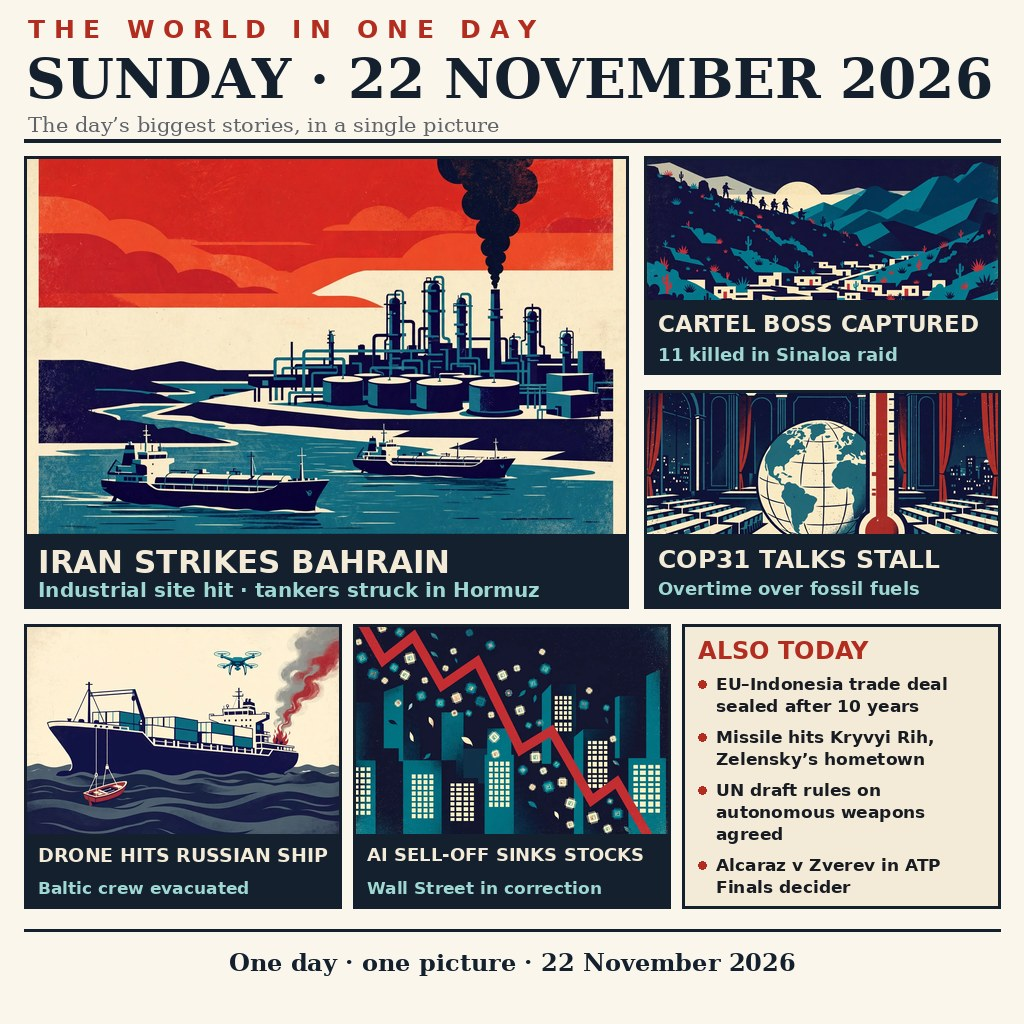
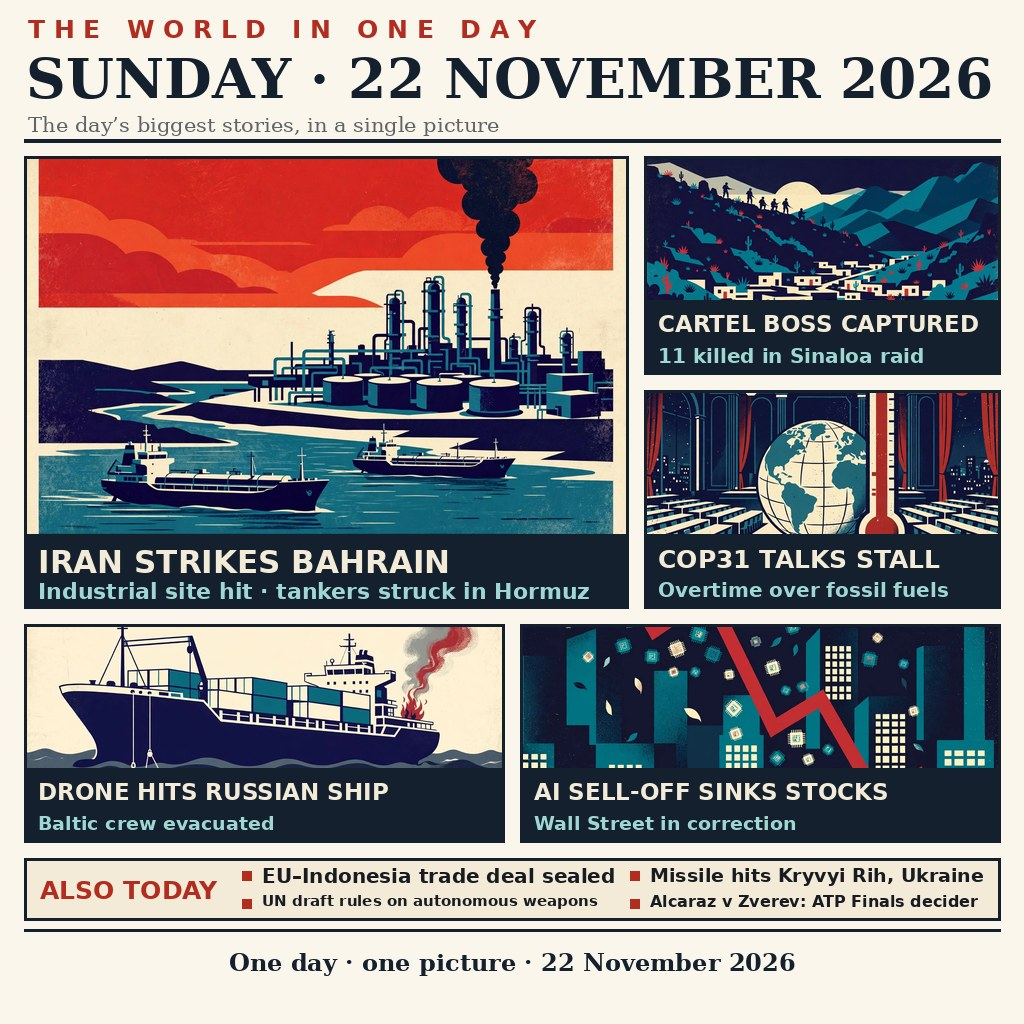
v2 layout: ALSO TODAY becomes a full-width strip in larger type (legible at 300px), wider bottom panels, larger sub-captions

Changed region(s): [[0.0, 0.5625, 1.0, 0.9062], [0.6562, 0.3438, 0.9062, 0.375]]

diff --git a/build/compose.py b/build/compose.py
@@ -38,7 +38,7 @@ def fit_size(draw, text, size, max_w, min_size=14):
         size -= 1
     return size
 
-def panel(canvas, draw, x, y, w, h, img, headline, sub, head_size=25, sub_size=18):
+def panel(canvas, draw, x, y, w, h, img, headline, sub, head_size=25, sub_size=20):
     cap_h = 74 if sub else 52
     img_h = h - cap_h
     canvas.paste(fit(img, w, img_h), (x, y))
@@ -81,36 +81,39 @@ def main():
 
     # ---- lead + right column ----
     panel(canvas, d, 24, 156, 604, 452, lead,
-          'IRAN STRIKES BAHRAIN', 'Industrial site hit · tankers struck in Hormuz', 31, 20)
+          'IRAN STRIKES BAHRAIN', 'Industrial site hit · tankers struck in Hormuz', 31, 22)
     panel(canvas, d, 644, 156, 356, 218, mexico,
-          'CARTEL BOSS CAPTURED', '11 killed in Sinaloa raid')
+          'CARTEL BOSS CAPTURED', '11 killed in Sinaloa raid', 25, 20)
     panel(canvas, d, 644, 390, 356, 218, cop31,
-          'COP31 TALKS STALL', 'Overtime over fossil fuels')
+          'COP31 TALKS STALL', 'Overtime over fossil fuels', 25, 20)
 
-    # ---- bottom row ----
-    panel(canvas, d, 24, 624, 317, 284, baltic,
-          'DRONE HITS RUSSIAN SHIP', 'Baltic crew evacuated', 21, 17)
-    panel(canvas, d, 353, 624, 317, 284, markets,
-          'AI SELL-OFF SINKS STOCKS', 'Wall Street in correction', 21, 17)
+    # ---- bottom row: two wide panels (v2: full width, no side column) ----
+    panel(canvas, d, 24, 624, 480, 218, baltic,
+          'DRONE HITS RUSSIAN SHIP', 'Baltic crew evacuated', 23, 19)
+    panel(canvas, d, 520, 624, 480, 218, markets,
+          'AI SELL-OFF SINKS STOCKS', 'Wall Street in correction', 23, 19)
 
-    # ALSO TODAY text panel
-    x, y, w, h = 682, 624, 318, 284
+    # ALSO TODAY: a full-width strip under the panels, set large enough
+    # to stay legible at the ~300px size the judge reads (v1's narrow
+    # side column blurred out completely at that size).
+    x, y, w, h = 24, 858, 976, 62
     d.rectangle([x, y, x + w, y + h], fill=CREAM, outline=NAVY, width=3)
-    d.text((x + 16, y + 12), 'ALSO TODAY', font=font(BOLD, 24), fill=RED)
+    d.text((x + 16, y + 17), 'ALSO TODAY', font=font(BOLD, 25), fill=RED)
     briefs = [
-        'EU–Indonesia trade deal sealed after 10 years',
-        'Missile hits Kryvyi Rih, Zelensky’s hometown',
-        'UN draft rules on autonomous weapons agreed',
-        'Alcaraz v Zverev in ATP Finals decider',
+        'EU–Indonesia trade deal sealed',
+        'Missile hits Kryvyi Rih, Ukraine',
+        'UN draft rules on autonomous weapons',
+        'Alcaraz v Zverev: ATP Finals decider',
     ]
-    cy = y + 50
-    bf = font(BOLD, 17)
-    for b in briefs:
-        d.ellipse([x + 16, cy + 6, x + 24, cy + 14], fill=RED)
-        for ln in wrap(d, b, bf, w - 52):
-            d.text((x + 34, cy), ln, font=bf, fill=INK)
-            cy += 22
-        cy += 9
+    cols = [x + 218, x + 606]
+    rows = [y + 6, y + 34]
+    for i, b in enumerate(briefs):
+        cx, cy = cols[i % 2], rows[i // 2]
+        d.rectangle([cx, cy + 7, cx + 9, cy + 16], fill=RED)
+        # each column's text must stop before the next column / the edge
+        limit = (cols[1] - 14) if i % 2 == 0 else (x + w - 12)
+        bs = fit_size(d, b, 20, limit - (cx + 20))
+        d.text((cx + 20, cy), b, font=font(BOLD, bs), fill=INK)
 
     # ---- footer ----
     d.line([24, 930, 1000, 930], fill=NAVY, width=3)
